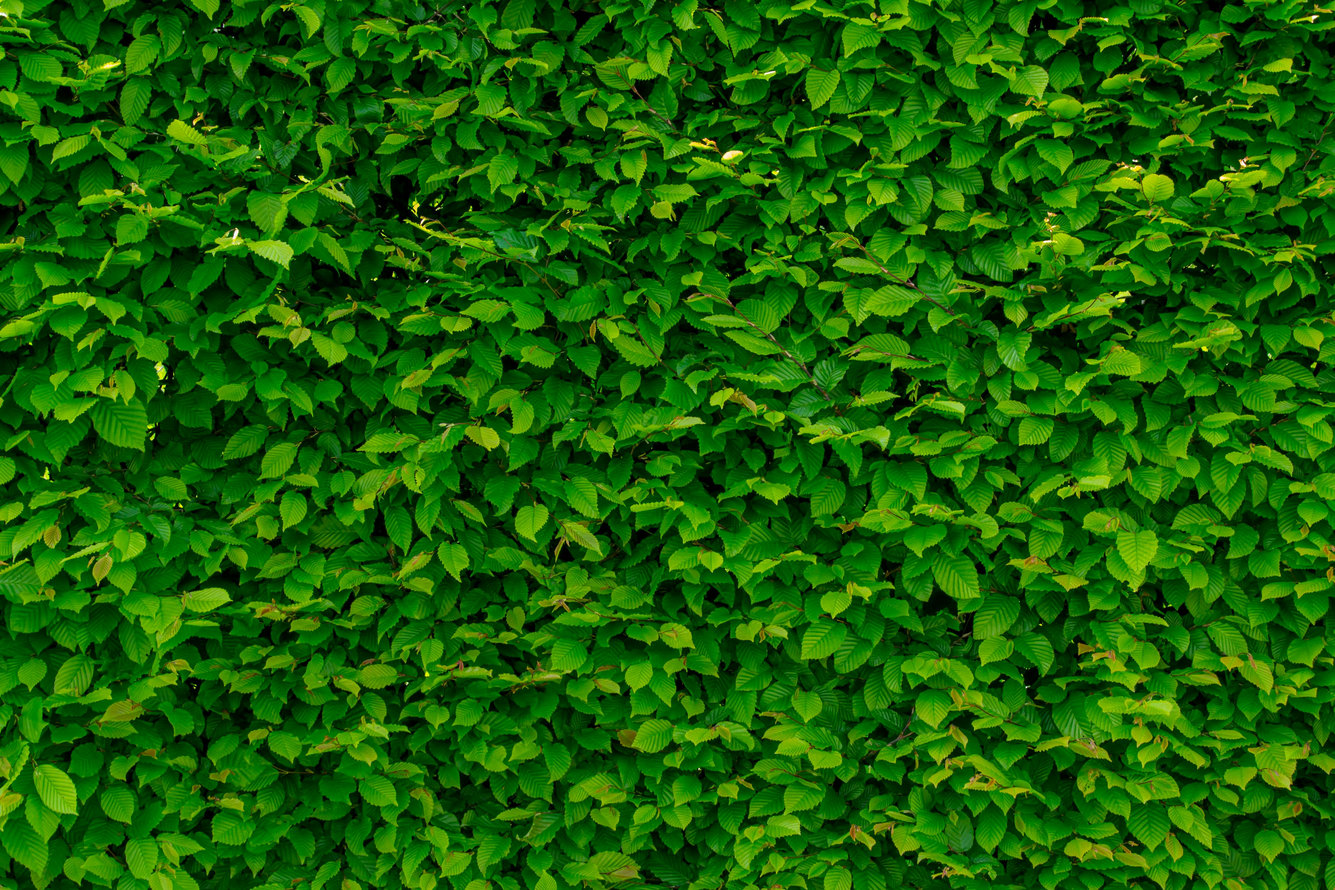
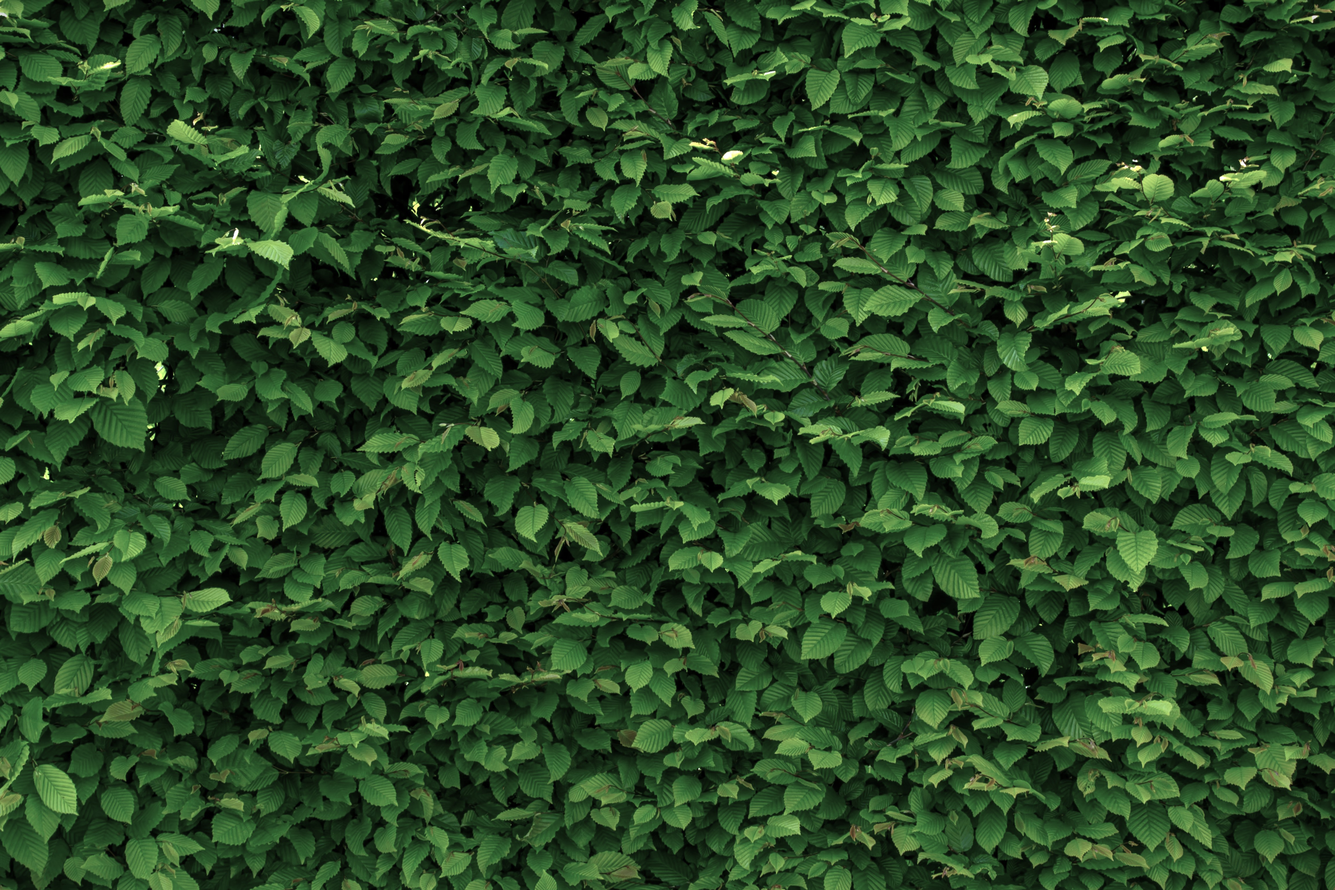
dev

diff --git a/index.html b/index.html
@@ -104,7 +104,7 @@
         <div class="row">
             <div class="col-md-6 text-center" data-aos="fade-right">
                 <img
-                  src="./images/unnamed.jpg"
+                  src="./images/IMG_1049_0.jpg"
                   class="img-fluid rounded shadow"
                   alt="New Section Image"
                 />

diff --git a/css/style.css b/css/style.css
@@ -8,7 +8,7 @@ body {
     background-repeat: no-repeat;
     backdrop-filter: opacitiy(0.5);
     backdrop-filter: blur(3px);
-    background-color: #ffffff3a;
+    background-color: #f0f0f03e;
     background-blend-mode: lighten;
     color: #fff;
 }
